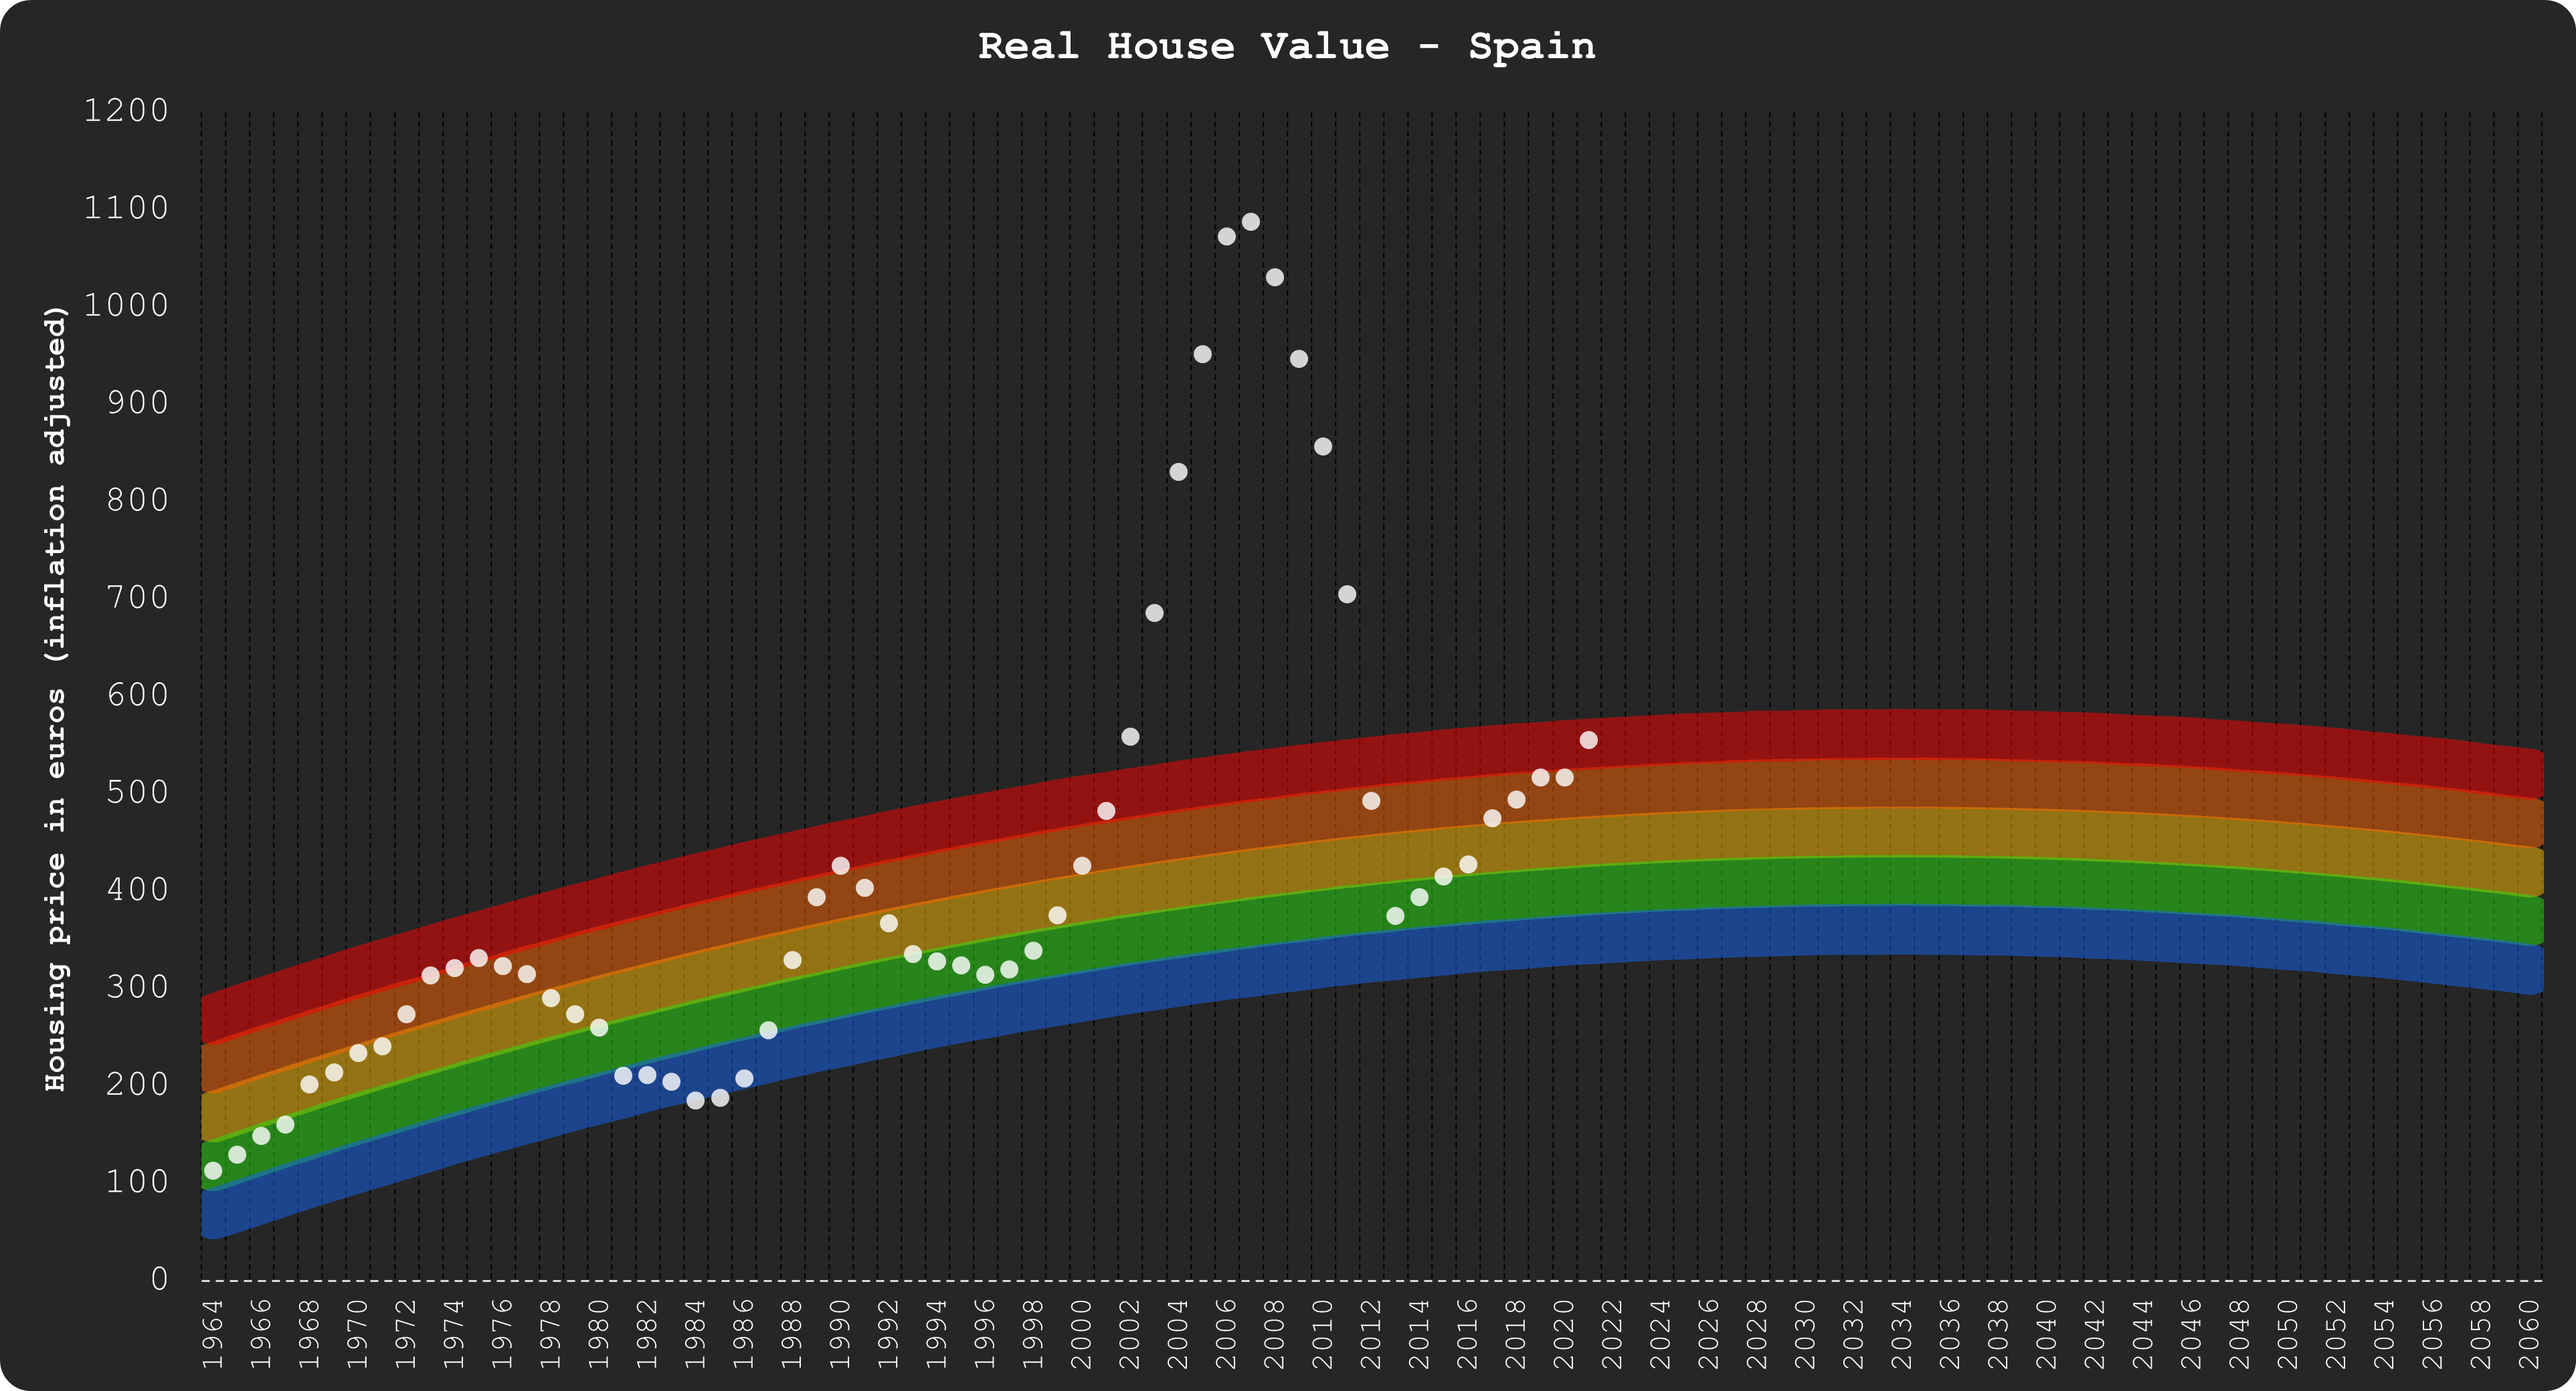
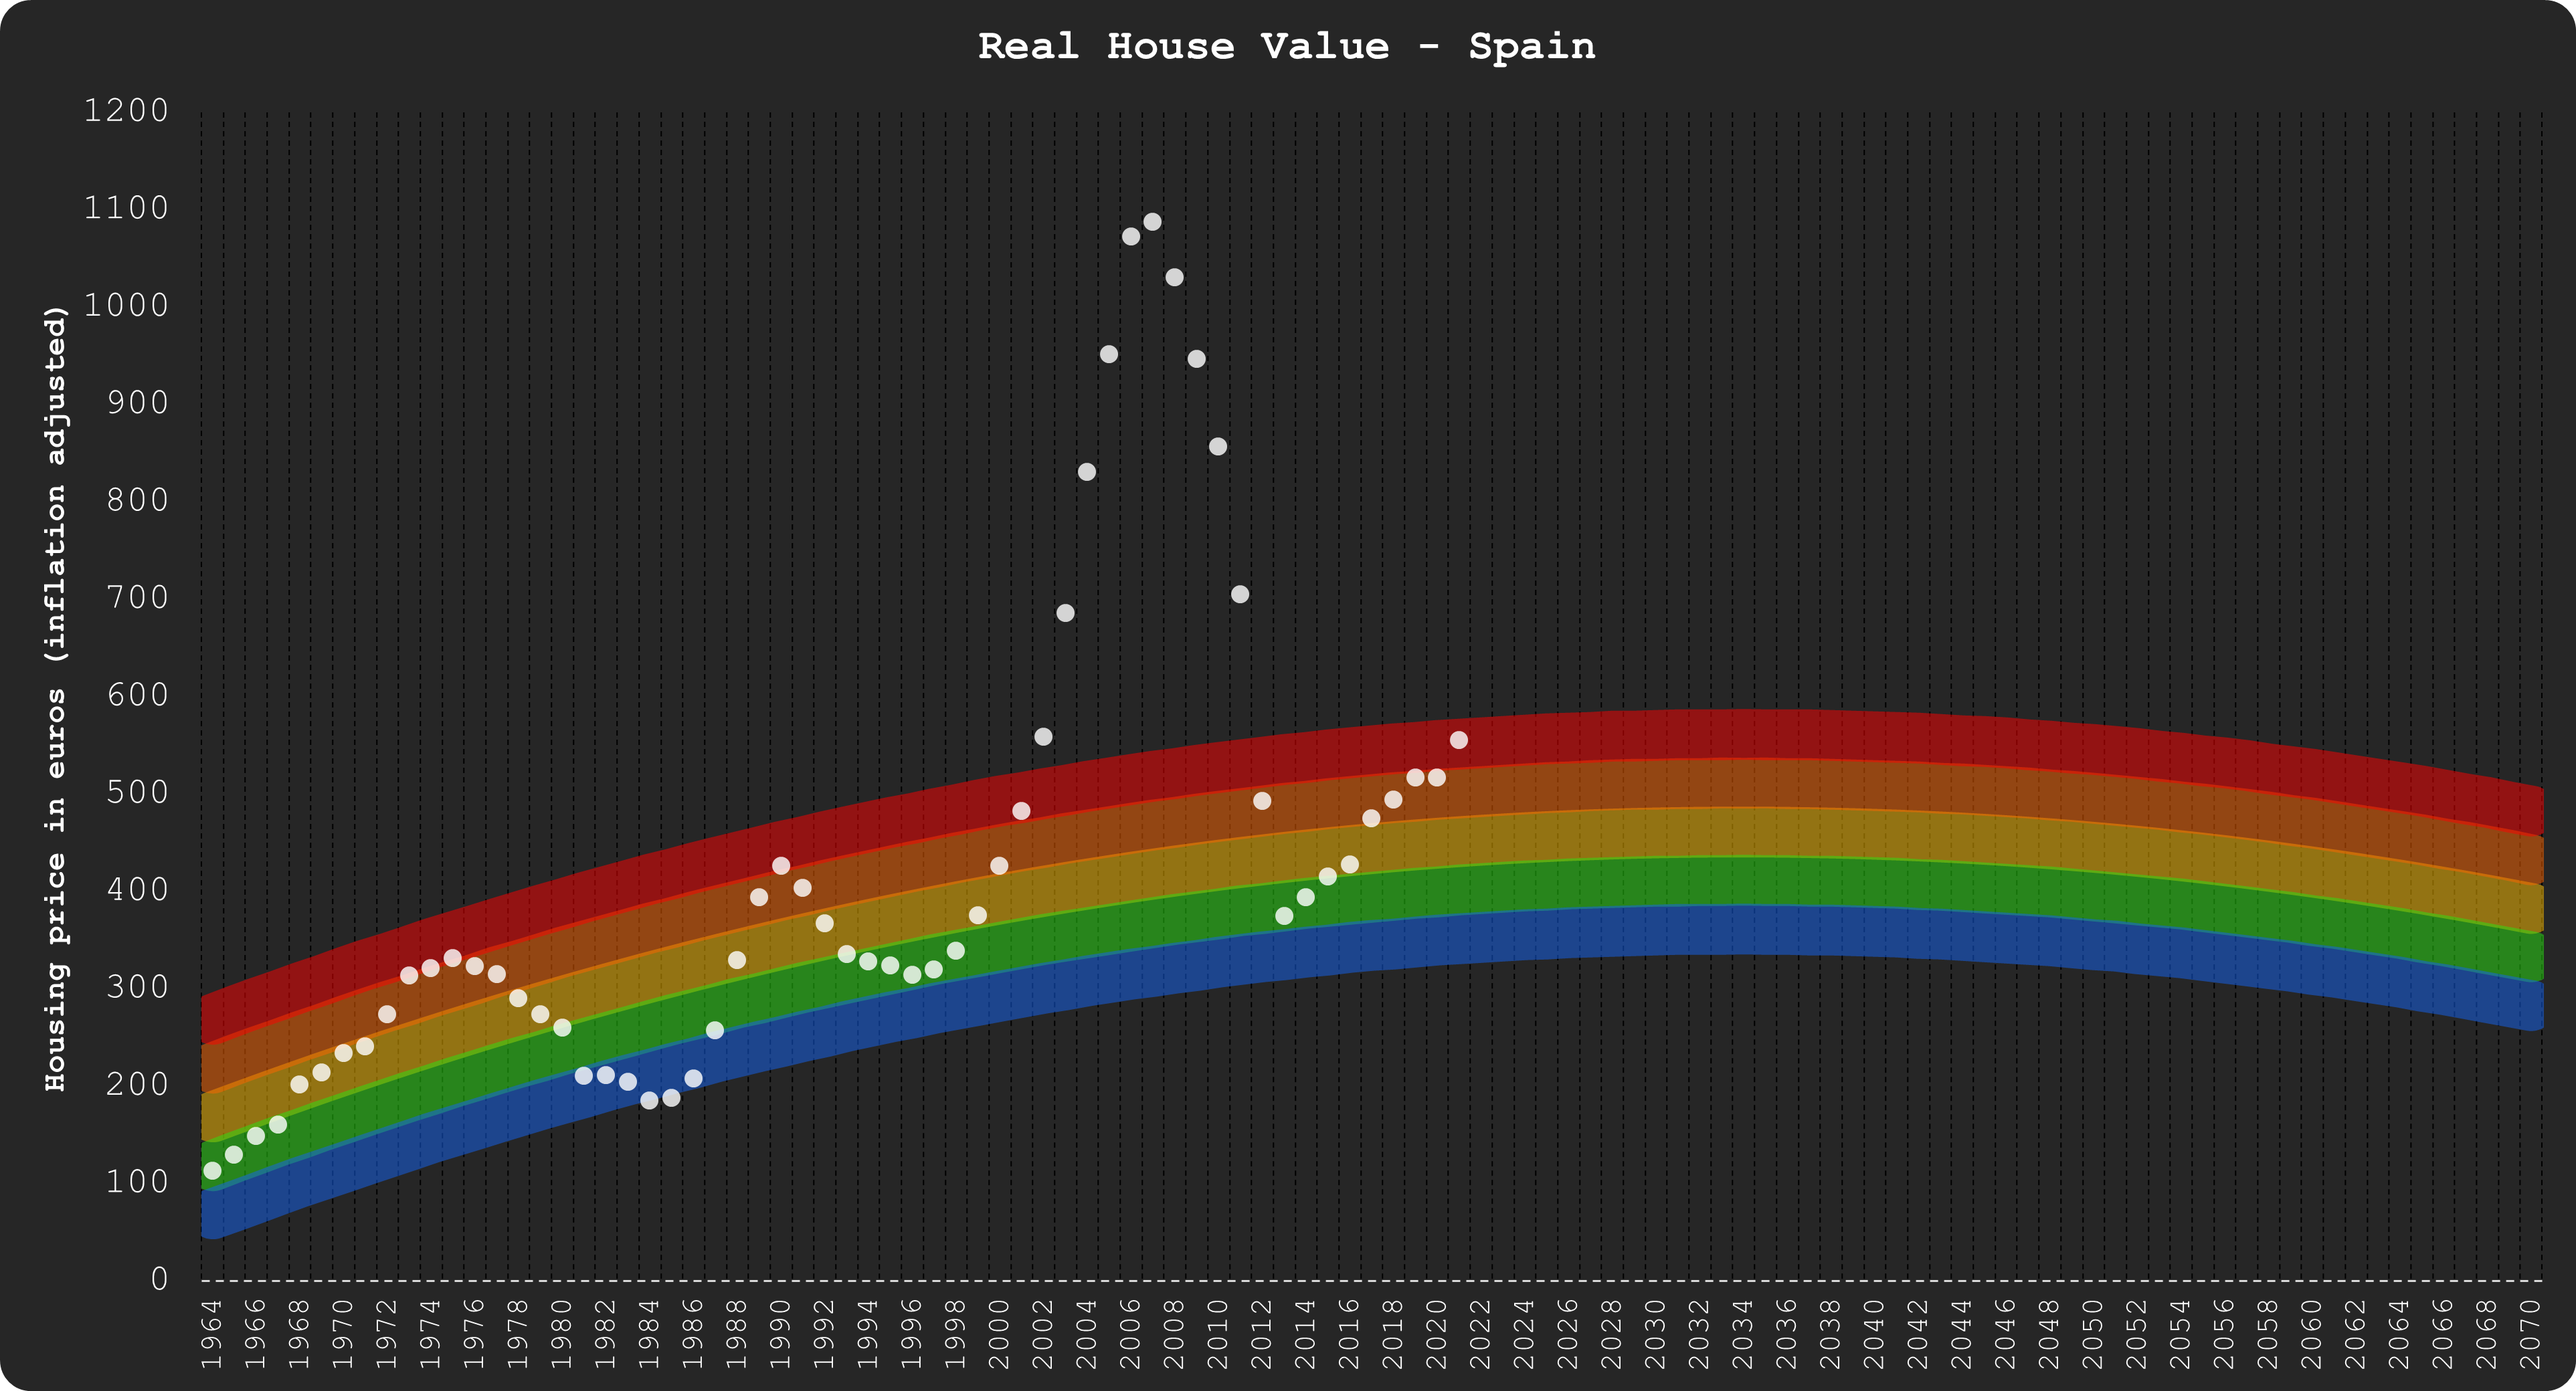
ty

diff --git a/pages/posts/rainbow.md b/pages/posts/rainbow.md
@@ -22,7 +22,7 @@ Equations chart:
 
 ![Reload chart](/images/rainbowsource.png)
 
-Full dataset chart, from 1964 to 2060:
+Full dataset chart, from 1964 to 2070:
 
 ![Reload chart](/images/rainbowmax.png)
 
